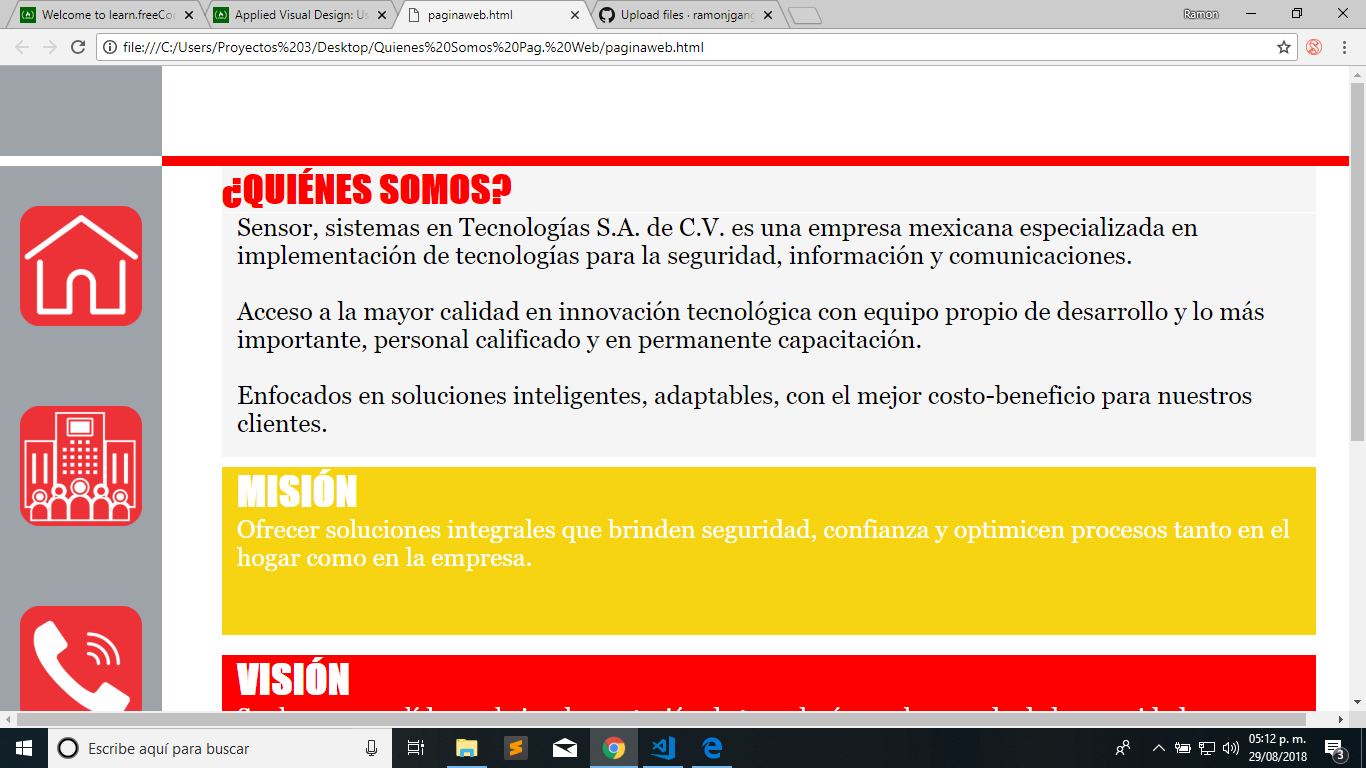
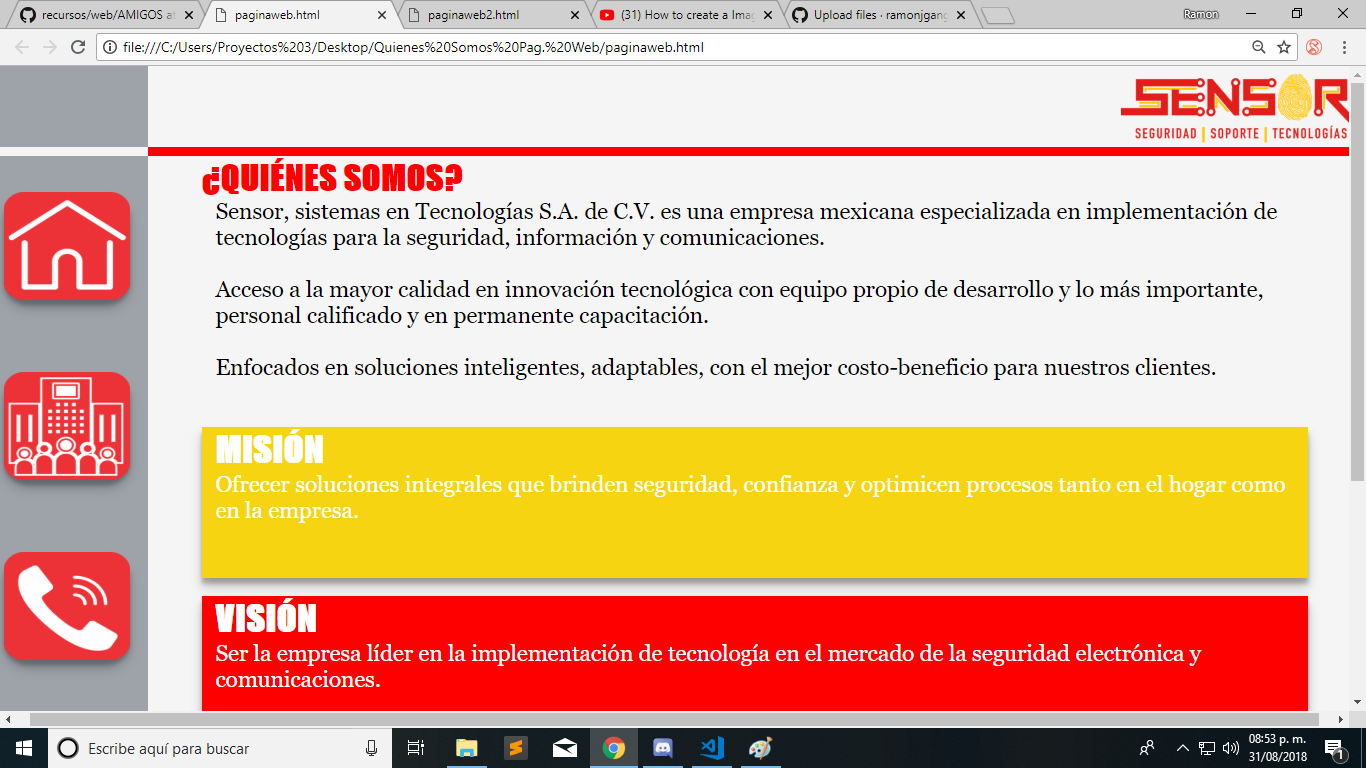
Add files via upload

diff --git a/paginaweb.html b/paginaweb.html
@@ -6,13 +6,15 @@
         }
         img:hover {
             transform: scale(1.2);
-            opacity: .5;
+            
         }
+
         .container{
             background-color:black;
             display: grid;
             grid-template-rows: 100px 1000px;
-            height: 1100px;
+            height: 1100;
+            
 
         }
         #header{
@@ -26,11 +28,11 @@
                 
             }
             #header2{
-            background-color: white;
+            background-color: whitesmoke;
             
             }
             #header3{
-            background-color: white;
+            background-color: whitesmoke;
             
             }
             #header4{
@@ -43,37 +45,42 @@
             grid-template-columns: 12% 90%;
             grid-template-rows: 94% 6%;
             font-family: Impact, Haettenschweiler, 'Arial Narrow Bold', sans-serif;
+            margin: 0;
             
         }
             #sidebar{
                 background-color: #9ea3aa;
                 grid-row-end: span 2;
                 display: grid;
-                grid-template-rows: 20% 20% 20% 20% 20%;
+                grid-template-rows: 20% 20% 20% 20% 20% ;
                 
             }
                 #logo1{
                     background-color: white;
                     margin: 40px 20px 40px 20px;
                     border-radius: 20%;
+                    box-shadow: 0 10px 20px rgba(0,0,0,0.19), 0 6px 6px rgba(0,0,0,0.23);
                 }
                 #logo2{
                     background-color: white;
                     margin: 40px 20px 40px 20px;
                     border-radius: 20%;
+                    box-shadow: 0 10px 20px rgba(0,0,0,0.19), 0 6px 6px rgba(0,0,0,0.23);
                 }
                 #logo3{
                     background-color: white;
                     margin: 40px 20px 40px 20px;
                     border-radius: 20%;
+                    box-shadow: 0 10px 20px rgba(0,0,0,0.19), 0 6px 6px rgba(0,0,0,0.23);
                 }
                 #logo4{
                     background-color: white;
                     margin: 40px 20px 40px 20px;
                     border-radius: 20%;
+                    box-shadow: 0 10px 20px rgba(0,0,0,0.19), 0 6px 6px rgba(0,0,0,0.23);
                 }
             #content1{
-                background-color: white;
+                background-color: whitesmoke;
                 display: grid;
                 grid-template-rows: 5% 26% 20% 20% 5% 26%; 
                 
@@ -96,11 +103,13 @@
                     background-color: #f7d411;
                     margin: 10px 60px 10px 60px;
                     color:white;
+                    box-shadow: 0 10px 20px rgba(0,0,0,0.19), 0 6px 6px rgba(0,0,0,0.23);
                 }
                 #content5{
                     background-color: red;
                     margin: 10px 60px 10px 60px;
                     color:white;
+                    box-shadow: 0 10px 20px rgba(0,0,0,0.19), 0 6px 6px rgba(0,0,0,0.23);
                 }
                 #content6{
                     background-color: whitesmoke;
@@ -117,35 +126,28 @@
                     grid-template-columns: 50% 50%;
                     grid-template-rows: 45% 45%;
                 }
-                    #valor1{
-
-                    }
-                    #valor2{
-
-                    }
-                    #valor3{
-
-                    }
-                    #valor4{
-
-                    }
+                  
                 .box1{
                     margin: 5px 5px 5px 0px;
                     border-color: black;
                     border-width: 3px;
                     border-style: double;
+                    box-shadow: 0 10px 20px rgba(0,0,0,0.19), 0 6px 6px rgba(0,0,0,0.23);
                 }
                 .box2{
                     margin: 5px 0px 5px 5px;
                     border-color: black;
                     border-width: 3px;
                     border-style: double;
+                    box-shadow: 0 10px 20px rgba(0,0,0,0.19), 0 6px 6px rgba(0,0,0,0.23);
                 }
             #footer{
                 background-color: #9ea3aa;
                 color: #f7d411;
                 font-size:35px;
                 align-self: start;
+                margin-right: 0 
+                
                 
             
             }
@@ -174,13 +176,23 @@
                 font-size: 20px;
                 font-family: Georgia, 'Times New Roman', Times, serif;
             }
+            .setsizeBanner{
+               height: 90px;
+               widows: 450px;
+            }
+            #banner:hover{
+                transform: scale(1);
+                opacity: 1;
+            }
             
     </style>
     <body>
         <div class="container ">
             <div id="header">
                 <div id="header1"></div>
-                <div id="header2"></div>
+                <div id="header2">
+                    <p align="end"><img id="banner"  class="setsizeBanner" src="C:\Users\Proyectos 3\Desktop\Quienes Somos Pag. Web\SENSOR.png" alt="Logo Sensor"  ></p>
+                </div>
                 <div id="header3"></div>
                 <div id="header4"></div>
             </div>
